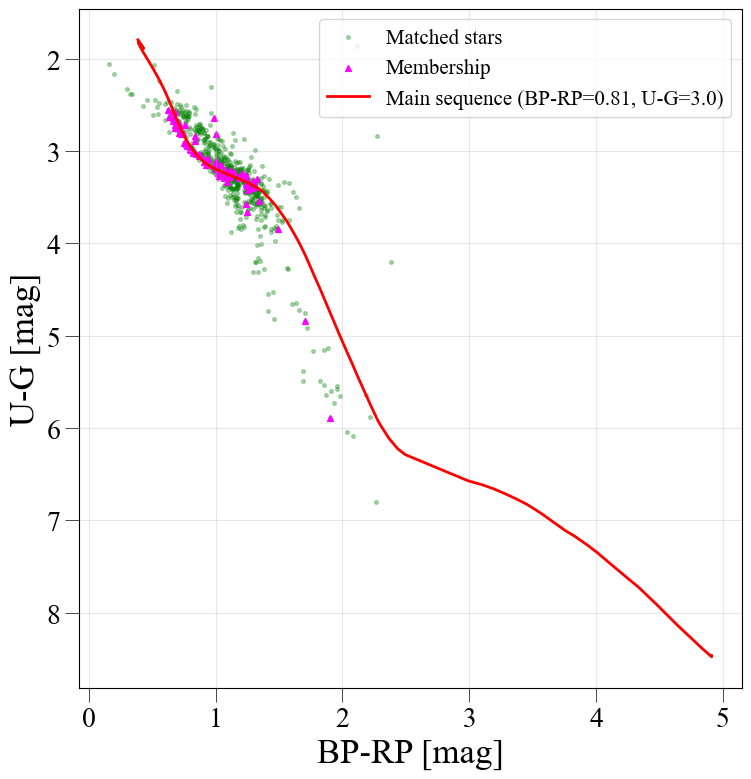
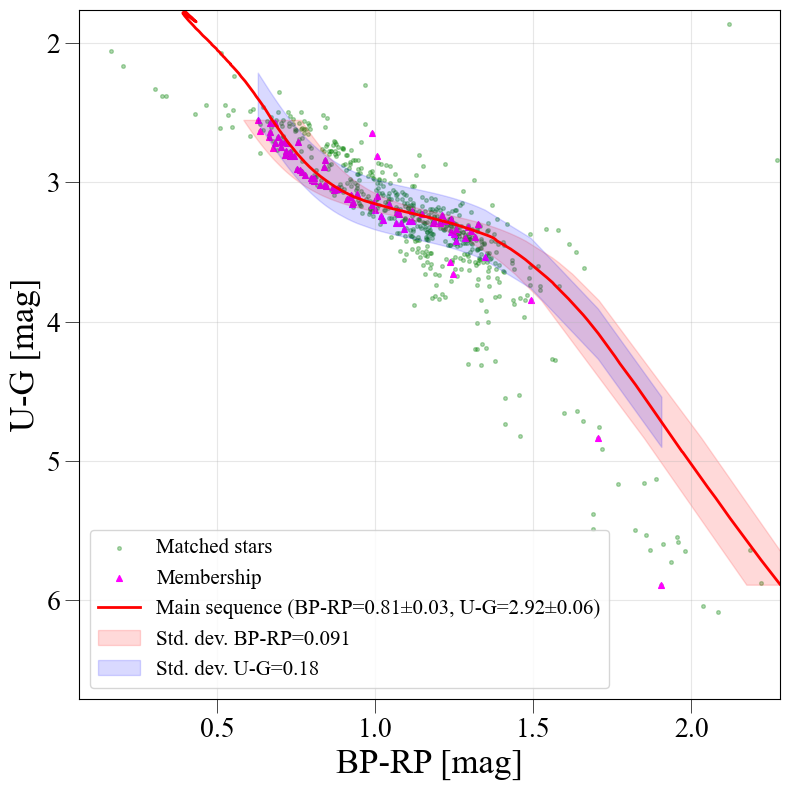
calculating error of MS offset

diff --git a/process_data.py b/process_data.py
@@ -1,10 +1,15 @@
 # Importing the libraries
 import pandas as pd
 import numpy as np
+
 import matplotlib.pyplot as plt
 from matplotlib.patches import Ellipse
 from matplotlib.widgets import Slider
+
 from scipy.optimize import leastsq
+from scipy.interpolate import interp1d
+from scipy.stats import t as t 
+
 import os 
 
 # Plots settings 
@@ -177,10 +182,10 @@ def diagram(cluster, colour1, colour2, adjust=False, cmd=False):
         else:
             print(f"Combination of colours {colour1} and {colour2} cant be used, because filters are located in different files. Try another combination.")
 
-        # Fitting MS
-        coeffs = np.polyfit(ms[colour1], ms[colour2], 9)
-        poly = np.poly1d(coeffs)
-        ms_fit = poly(ms[colour1])
+        # # Fitting MS
+        # coeffs = np.polyfit(ms[colour1], ms[colour2], 9)
+        # poly = np.poly1d(coeffs)
+        # ms_fit = poly(ms[colour1])
 
     # Importing filtered datasets
     print(f"\nImporting filtered datasets for {cluster}...")
@@ -338,6 +343,12 @@ def plot_filtered(gaia_filtered, uv_filtered, gaia_cart, uv_cart):
 def plot_cc(gaia_matched, uv_matched, gaia_filtered, uv_filtered, ms, colour1, colour2, adjust):
     fig, ax = plt.subplots(figsize=(8, 8))
 
+    # Plot limits
+    colour1_min = gaia_matched[colour1].min()-0.1
+    colour1_max = gaia_matched[colour1].max()-0.1
+    colour2_min = uv_matched[colour2].min()-0.1
+    colour2_max = uv_matched[colour2].max()-0.1
+
     if adjust: 
         def update(val):
             x = sx.val
@@ -379,7 +390,49 @@ def plot_cc(gaia_matched, uv_matched, gaia_filtered, uv_filtered, ms, colour1, c
         x_new = sx.val
         y_new = sy.val
 
+        # Calculating std dev of x and y of matched stars from MS
+        # Limits of membership
+        x_mem_min = gaia_filtered[colour1].min()
+        y_mem_max = uv_filtered[colour2].max()
+
+        ms.loc[:, colour1] = ms[colour1] + x_new
+        ms.loc[:, colour2] = ms[colour2] + y_new
+
+        ms_filtered = ms[(ms[colour1] >= x_mem_min) & (ms[colour2] <= y_mem_max)]
+
+        # Fit a polynomial to the filtered main sequence data
+        coeffs_y = np.polyfit(ms_filtered[colour1], ms_filtered[colour2], 9)
+        poly_y = np.poly1d(coeffs_y)
+        ms_fit_y = poly_y(gaia_filtered[colour1])
+
+        residuals_y = uv_filtered[colour2] - ms_fit_y
+        std_dev_y = np.std(residuals_y)
+
+        x_fitted = np.linspace(min(gaia_filtered[colour1]), max(gaia_filtered[colour1]), 1000)
+        y_fitted_curve = np.polyval(coeffs_y, x_fitted)
+
+        # Create interpolation function to estimate x values based on y_data
+        interp_func = interp1d(y_fitted_curve, x_fitted, bounds_error=False, fill_value="extrapolate")
+        x_estimated = interp_func(uv_filtered[colour2])
+
+        residuals_x = gaia_filtered[colour1] - x_estimated
+        std_dev_x = np.std(residuals_x)
+        
+        t_coeff = t.ppf((1 + 0.9973)/2, len(gaia_filtered[colour1])-1)
+        s_x = std_dev_x/np.sqrt(len(gaia_filtered[colour1]))
+        s_y = std_dev_y/np.sqrt(len(uv_filtered[colour2]))
+        u_x = t_coeff*s_x
+        u_y = t_coeff*s_y
+        
+        print(f"\nStandard deviation of x: {std_dev_x}")
+        print(f"Standard deviation of y: {std_dev_y}")
+        print(f"\nUncertainty of x: {u_x}")
+        print(f"Uncertainty of y: {u_y}\n")
+
+        # Plot the fitted main sequence
         fig2, ax2 = plt.subplots(figsize=(8, 8))
+        ax2.set_xlim(colour1_min, colour1_max)
+        ax2.set_ylim(colour2_min, colour2_max)
         ax2.set_xlabel(f"{colour1} [mag]")
         ax2.xaxis.label.set_fontsize(25)
         ax2.set_ylabel(f"{colour2} [mag]")
@@ -391,13 +444,35 @@ def plot_cc(gaia_matched, uv_matched, gaia_filtered, uv_filtered, ms, colour1, c
         plt.tight_layout()  
 
         ax2.scatter(gaia_matched[colour1], uv_matched[colour2], color='green', s=7, alpha=0.3, label='Matched stars')
-        ax2.scatter(gaia_filtered [colour1], uv_filtered [colour2], color='magenta', s=17, marker='^', label='Membership')
+        ax2.scatter(gaia_filtered[colour1], uv_filtered[colour2], color='magenta', s=17, marker='^', label='Membership')
+            
+        ax2.plot(ms[colour1],ms[colour2], color='red', linewidth=2, label=f'Main sequence ({colour1}={round(x_new, 2)}±{round(u_x, 2)}, {colour2}={round(y_new, 2)}±{round(u_y, 2)})')
+        
+        # ax2.scatter(gaia_filtered[colour1], ms_fit_y, color='blue', s=5)
+        # ax2.scatter(x_estimated, uv_filtered[colour2], color='blue', s=5)
 
-        ax2.plot(ms[colour1]+x_new, ms[colour2]+y_new, color='red', linewidth=2, label=f'Main sequence ({colour1}={x_new:.2}, {colour2}={y_new:.2})')
-        ax2.legend(loc='upper right', fontsize=15)
+        sorted_indices = uv_filtered[colour2].argsort()
+
+        uv_filtered = uv_filtered.iloc[sorted_indices]
+        x_estimated = x_estimated[sorted_indices]
+        
+        ax2.fill_betweenx(uv_filtered[colour2], x_estimated - std_dev_x, x_estimated + std_dev_x, color='red', alpha=0.15, label=f'Std. dev. {colour1}={round(std_dev_x, 3)}')
+
+        # Sort the data by the growing value of x and y
+        sorted_indices = gaia_filtered[colour1].argsort()
+
+        gaia_filtered = gaia_filtered.iloc[sorted_indices]
+        ms_fit_y = ms_fit_y[sorted_indices]
+
+        ax2.fill_between(gaia_filtered[colour1], ms_fit_y - round(std_dev_y, 2), ms_fit_y + round(std_dev_y, 2), color='blue', alpha=0.15, label=f'Std. dev. {colour2}={round(std_dev_y, 3)}')
+
+        ax2.plot()
+        ax2.legend(loc='lower left', fontsize=15)
 
         fig2.savefig(f'plots/CC/{colour1}_{colour2}.png', bbox_inches='tight')
     else:
+        ax.set_xlim(colour1_min, colour1_max)
+        ax.set_ylim(colour2_min, colour2_max)
         ax.set_xlabel(f"{colour1} [mag]")
         ax.xaxis.label.set_fontsize(25)
         ax.set_ylabel(f"{colour2} [mag]")
@@ -412,13 +487,21 @@ def plot_cc(gaia_matched, uv_matched, gaia_filtered, uv_filtered, ms, colour1, c
         ax.scatter(gaia_filtered[colour1], uv_filtered[colour2], color='magenta', s=17, marker='^', label=f'Membership')
 
         ax.plot(ms[colour1], ms[colour2], color='red', linewidth=2, label='Main sequence')
-        ax.legend(loc='upper right', fontsize=15)
+        ax.legend(loc='lower left', fontsize=15)
 
         fig.savefig(f'plots/CC/{colour1}_{colour2}.png', bbox_inches='tight')
 
 def plot_cmd(gaia_matched, uv_matched, gaia_filtered, uv_filtered, colour1, colour2):
+    # Plot limits
+    colour1_min = gaia_matched[colour1].min()-0.1
+    colour1_max = gaia_matched[colour1].max()-0.1
+    colour2_min = gaia_matched[colour2].min()-0.1
+    colour2_max = gaia_matched[colour2].max()-0.1
+    
     fig, ax = plt.subplots(figsize=(8, 8))
 
+    ax.set_xlim(colour1_min, colour1_max)
+    ax.set_ylim(colour2_min, colour2_max)
     ax.set_xlabel(f"{colour1} [mag]")
     ax.xaxis.label.set_fontsize(25)
     ax.set_ylabel(f"{colour2} [mag]")
@@ -436,6 +519,6 @@ def plot_cmd(gaia_matched, uv_matched, gaia_filtered, uv_filtered, colour1, colo
         ax.scatter(gaia_matched[colour1], gaia_matched[colour2], color='green', s=7, alpha=0.3, label='Matched stars')
         ax.scatter(gaia_filtered[colour1], gaia_filtered[colour2], color='magenta', s=17, marker='^', label=f'Membership')
 
-    ax.legend(loc='upper right', fontsize=15)
+    ax.legend(loc='lower left', fontsize=15)
 
     fig.savefig(f'plots/CMD/{colour1}_{colour2}.png', bbox_inches='tight')
